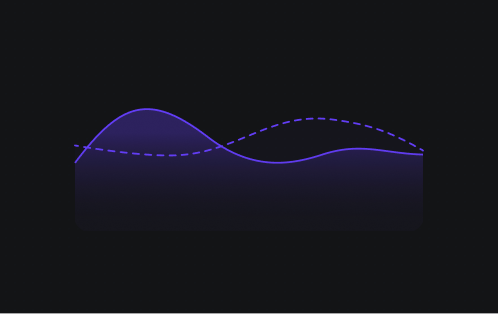
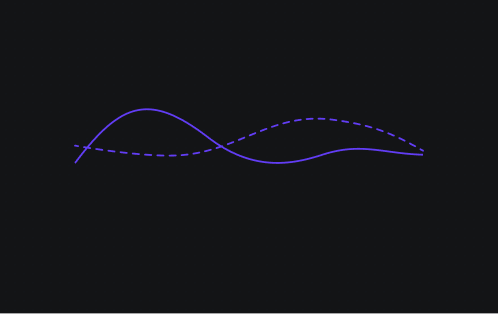
fix: line chart added in chart-thumbnail

diff --git a/packages/charts-thumbnail/README.md b/packages/charts-thumbnail/README.md
@@ -1,0 +1,105 @@
+# Chart Thumbnails
+
+<p align="center">
+  <strong>Pre-rendered, high-quality chart thumbnail previews in light and dark modes for dashboard pickers and UI builders.</strong>
+</p>
+
+This package contains **12 pre-rendered, high-quality chart thumbnail PNG assets** representing popular chart types in both **light** and **dark** theme variants. These are ideal for chart type selectors, dashboard configuration modals, template previews, analytics builders, and UI mockups.
+
+---
+
+## 📊 Available Chart Thumbnails
+
+| Chart Type | Light Mode Asset | Dark Mode Asset |
+| :--- | :--- | :--- |
+| **Area Chart** | `area-chart.png` | `area-chart-dark.png` |
+| **Bar Chart** | `bar-chart.png` | `bar-chart-dark.png` |
+| **Donut Chart** | `donut-chart.png` | `donut-chart-dark.png` |
+| **Line Chart** | `line-chart.png` | `line-chart-dark.png` |
+| **Pie Chart** | `pie-chart.png` | `pie-chart-dark.png` |
+| **Radar Chart** | `radar-chart.png` | `radar-chart-dark.png` |
+
+---
+
+## 🚀 CDN Usage (Zero Install)
+
+You do not need to install this package. You can hotlink and embed the chart thumbnails directly into your applications using the jsDelivr global CDN:
+
+```text
+https://cdn.jsdelivr.net/gh/Radian-os/radian-resources@main/packages/charts-thumbnail/src/{filename}
+```
+
+*Replace `{filename}` with the chart asset name (e.g., `area-chart.png`, `bar-chart-dark.png`, `line-chart.png`).*
+
+---
+
+## 🛠 Code Example (React / Next.js)
+
+To display these chart thumbnails dynamically based on chart type and current theme (light/dark):
+
+```tsx
+import Image from 'next/image';
+
+interface ChartThumbnailProps {
+  type: 'area' | 'bar' | 'donut' | 'line' | 'pie' | 'radar';
+  isDark?: boolean;
+}
+
+export default function ChartThumbnail({ type, isDark = false }: ChartThumbnailProps) {
+  const fileName = isDark ? `${type}-chart-dark.png` : `${type}-chart.png`;
+  const src = `https://cdn.jsdelivr.net/gh/Radian-os/radian-resources@main/packages/charts-thumbnail/src/${fileName}`;
+
+  return (
+    <div className="overflow-hidden rounded-lg border border-slate-200 dark:border-slate-800">
+      <Image 
+        src={src}
+        alt={`${type} chart preview`}
+        width={320}
+        height={200}
+        className="w-full h-auto object-cover"
+      />
+    </div>
+  );
+}
+```
+
+### Next.js Image Optimization Configuration
+
+To permit Next.js to fetch and optimize these images from the CDN, add the following configuration to your `next.config.js` or `next.config.mjs`:
+
+```javascript
+/** @type {import('next').NextConfig} */
+const nextConfig = {
+  images: {
+    remotePatterns: [
+      {
+        protocol: 'https',
+        hostname: 'cdn.jsdelivr.net',
+        pathname: '/gh/Radian-os/radian-resources/**',
+      },
+    ],
+  },
+};
+
+module.exports = nextConfig;
+```
+
+### HTML Example
+
+```html
+<!-- Light Mode -->
+<img 
+  src="https://cdn.jsdelivr.net/gh/Radian-os/radian-resources@main/packages/charts-thumbnail/src/bar-chart.png" 
+  alt="Bar Chart Preview" 
+  width="320" 
+  height="200" 
+/>
+
+<!-- Dark Mode -->
+<img 
+  src="https://cdn.jsdelivr.net/gh/Radian-os/radian-resources@main/packages/charts-thumbnail/src/bar-chart-dark.png" 
+  alt="Bar Chart Dark Preview" 
+  width="320" 
+  height="200" 
+/>
+```

diff --git a/README.md b/README.md
@@ -49,9 +49,12 @@ This repository contains the following asset collections. Click on a category na
 | Asset Category | Directory / Documentation | Description |
 | :--- | :--- | :--- |
 | **Avatars** | [packages/avatars](./packages/avatars/README.md) | 200 transparent, high-quality PNG user avatars for UI mocks. |
+| **Avatar Backgrounds** | [packages/avatars-background](./packages/avatars-background/README.md) | 58 solid, gradient, and image backgrounds for UI avatars. |
 | **Brand Logos** | [packages/brand-logos](./packages/brand-logos/README.md) | Scalable SVG logos for popular brands and integrations. |
+| **Chart Thumbnails** | [packages/charts-thumbnail](./packages/charts-thumbnail/README.md) | Pre-rendered light and dark mode chart thumbnail previews. |
 | **Country Flags** | [packages/country-flags](./packages/country-flags/README.md) | PNG country flags in multiple sizes and shapes for selectors and user profiles. |
 | **File Icons** | [packages/file-icons](./packages/file-icons/README.md) | Consistent, modern SVG file-type icons. |
+| **Shadow Overlays** | [packages/shadow](./packages/shadow/README.md) | Pre-rendered shadow overlays for UI layout depth. |
 
 ---
 
